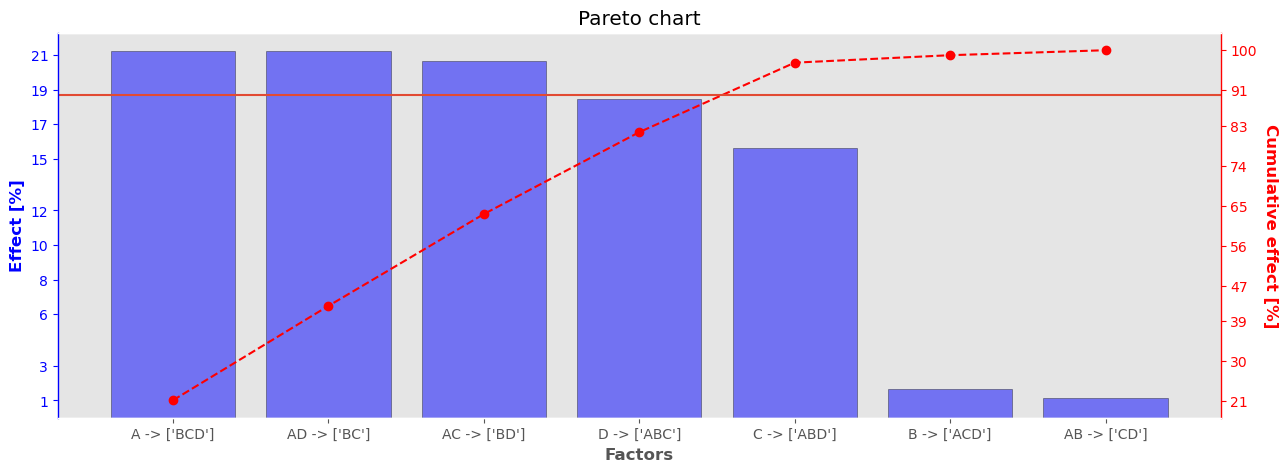
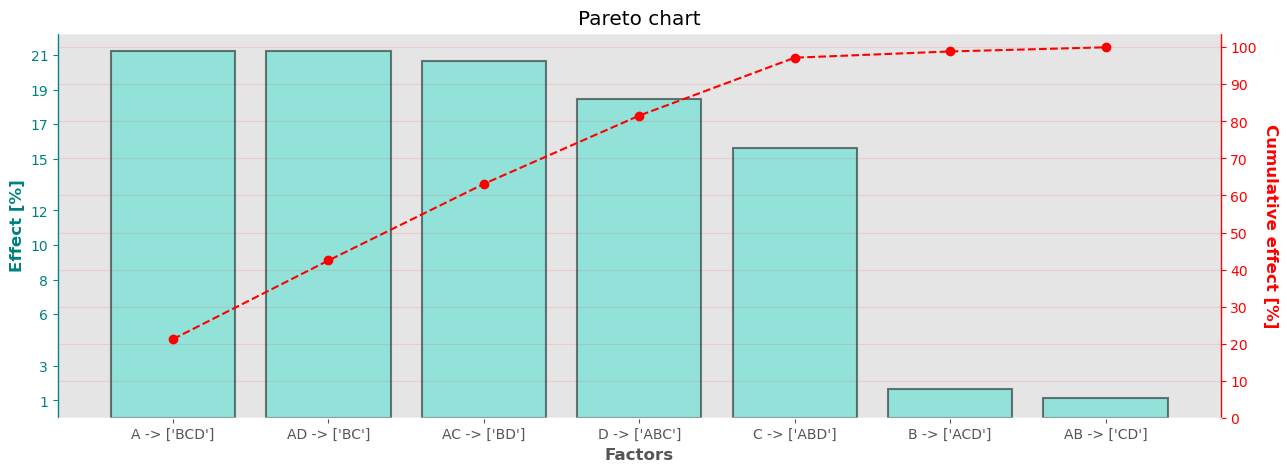
Update

diff --git a/source/doemodels/factorial.py b/source/doemodels/factorial.py
@@ -28,11 +28,12 @@ class Factorial2k:
 
     columns_input: list[str] = field(default_factory=list)
     columns_multiplication: list[str] = field(default_factory=list, init=False, repr=False)
-    DataFrame_Full: object = field(default_factory=list, init=False, repr=False)
+    DataFrame: object = field(default_factory=list, init=False, repr=False)
     aliases: dict = field(default_factory=list, init=False, repr=False)
     aliases_filtered: dict = field(default_factory=list, init=False, repr=False)
     DataFrame_AntiAliased: object = field(default_factory=list, init=False, repr=False)
-    effects: object = field(default_factory=list, init=False, repr=False)
+    effects_table: object = field(default_factory=list, init=False, repr=False)
+    pareto_table: object = field(default_factory=object, init=False, repr=False)
 
     def multiplications(self):
         for i in range(1, len(self.columns_input) + 1):
@@ -47,26 +48,26 @@ class Factorial2k:
             df[i] = df[mult_columns].prod(axis=1)
         df.index.name = "Experiments"
         df.index += 1
-        self.DataFrame_Full = df
+        self.DataFrame = df
 
     def fractional(self, principal_fraction: Union[list[str], str]):
         if isinstance(principal_fraction, str):
-            self.DataFrame_Full = self.DataFrame_Full.query(f"{principal_fraction} == 1")
-            self.DataFrame_Full = self.DataFrame_Full.drop(principal_fraction, axis=1)
+            self.DataFrame = self.DataFrame.query(f"{principal_fraction} == 1")
+            self.DataFrame = self.DataFrame.drop(principal_fraction, axis=1)
         else:
             for i in principal_fraction:
-                self.DataFrame_Full = self.DataFrame_Full.query(f"{i} == 1")
-                self.DataFrame_Full = self.DataFrame_Full.drop(i, axis=1)
-        self.DataFrame_Full.reset_index(drop=True, inplace=True)
-        self.DataFrame_Full.index.name = "Experiments"
-        self.DataFrame_Full.index += 1
+                self.DataFrame = self.DataFrame.query(f"{i} == 1")
+                self.DataFrame = self.DataFrame.drop(i, axis=1)
+        self.DataFrame.reset_index(drop=True, inplace=True)
+        self.DataFrame.index.name = "Experiments"
+        self.DataFrame.index += 1
 
         # Aliases
         alias_dict = {}
-        for checking_column in self.DataFrame_Full.columns:
+        for checking_column in self.DataFrame.columns:
             aliases = []
-            for column in self.DataFrame_Full.columns:
-                if checking_column != column and (self.DataFrame_Full[checking_column] == self.DataFrame_Full[column]).all():
+            for column in self.DataFrame.columns:
+                if checking_column != column and (self.DataFrame[checking_column] == self.DataFrame[column]).all():
                     aliases.append(column)
             alias_dict[checking_column] = aliases
         self.aliases = alias_dict
@@ -76,13 +77,13 @@ class Factorial2k:
         cols_to_keep = []
         for key, values in self.aliases.items():
             for alias in values:
-                if alias in self.DataFrame_Full.columns and alias not in cols_to_keep:
+                if alias in self.DataFrame.columns and alias not in cols_to_keep:
                     cols_to_drop.append(alias)
             cols_to_keep.append(key)
-        self.DataFrame_AntiAliased = self.DataFrame_Full.drop(cols_to_drop, axis=1)
+        self.DataFrame_AntiAliased = self.DataFrame.drop(cols_to_drop, axis=1)
         self.aliases_filtered = {key: value for key, value in self.aliases.items() if key not in cols_to_drop}
 
-    def effect(self, response: list[float], n: int = 1, graph: bool = False):
+    def effects(self, response: list[float], n: int = 1, graph: bool = False):
         if self.aliases:
             labels = []
             for key, value in self.aliases_filtered.items():
@@ -92,86 +93,83 @@ class Factorial2k:
             division = df["A"].value_counts().values[1]
             df["Y"] = response
             df_multiplied = df.drop(columns=['Y']).mul(df['Y'], axis=0)
-            self.effects = pd.DataFrame(df_multiplied.sum(), columns=["Response"]).T / division / n
-            min = self.effects.min().values.min()
-            max = self.effects.max().values.max()
-            self.effects.columns = labels
+            self.effects_table = pd.DataFrame(df_multiplied.sum(), columns=["Response"]).T / division / n
+            min = self.effects_table.min().values.min()
+            max = self.effects_table.max().values.max()
+            self.effects_table.columns = labels
             if graph:
                 if len(self.DataFrame_AntiAliased.columns) > 15:
                     with plotting() as (fig, ax):
-                        ax.barh(y=self.effects.columns, width=self.effects.loc["Response"], color="turquoise", edgecolor="black", linewidth=0.5)
+                        ax.barh(y=self.effects_table.columns, width=self.effects_table.loc["Response"], color="turquoise", edgecolor="black", linewidth=1.5)
                         ax.axvline(0, color="black")
-                        ax.set_xlabel("Factors")
-                        ax.set_ylabel("Effect")
+                        ax.set_xlabel("Effect")
+                        ax.set_ylabel("Factors")
                         ax.set_title("Effects of factors")
                         ax.set_xticks(np.linspace(min, max, 10))
                 else:
                     with plotting() as (fig, ax):
-                        ax.bar(x=self.effects.columns, height=self.effects.loc["Response"], color="turquoise", edgecolor="black", linewidth=0.5)
+                        ax.bar(x=self.effects_table.columns, height=self.effects_table.loc["Response"], color="turquoise", edgecolor="black", linewidth=1.5)
                         ax.axhline(0, color="black")
                         ax.set_xlabel("Factors")
                         ax.set_ylabel("Effect")
                         ax.set_title("Effects of factors")
                         ax.set_yticks(np.linspace(min, max, 10))
         else:
-            df = self.DataFrame_Full
+            df = self.DataFrame
             division = df["A"].value_counts().values[1]
             df["Y"] = response
             df_multiplied = df.drop(columns=['Y']).mul(df['Y'], axis=0)
-            self.effects = pd.DataFrame(df_multiplied.sum(), columns=["Response"]).T / division / n
-            min = self.effects.min().values.min()
-            max = self.effects.max().values.max()
+            self.effects_table = pd.DataFrame(df_multiplied.sum(), columns=["Response"]).T / division / n
+            min = self.effects_table.min().values.min()
+            max = self.effects_table.max().values.max()
             if graph:
-                if len(self.DataFrame_Full.columns) > 15:
+                if len(self.DataFrame.columns) > 15:
                     with plotting() as (fig, ax):
-                        ax.barh(y=self.effects.columns, width=self.effects.loc["Response"], color="turquoise", edgecolor="black", linewidth=0.5)
+                        ax.barh(y=self.effects_table.columns, width=self.effects_table.loc["Response"], color="turquoise", edgecolor="black", linewidth=1.5)
                         ax.axvline(0, color="black")
-                        ax.set_xlabel("Factors")
-                        ax.set_ylabel("Effect")
+                        ax.set_xlabel("Effect")
+                        ax.set_ylabel("Factors")
                         ax.set_title("Effects of factors")
                         ax.set_xticks(np.linspace(min, max, 10))
                 else:
                     with plotting() as (fig, ax):
-                        ax.bar(x=self.effects.columns, height=self.effects.loc["Response"], color="turquoise", edgecolor="black", linewidth=0.5)
+                        ax.bar(x=self.effects_table.columns, height=self.effects_table.loc["Response"], color="turquoise", edgecolor="black", linewidth=1.5)
                         ax.axhline(0, color="black")
                         ax.set_xlabel("Factors")
                         ax.set_ylabel("Effect")
                         ax.set_title("Effects of factors")
                         ax.set_yticks(np.linspace(min, max, 10))
 
-    def pareto(self):
-        df = self.effects.copy()
+    def pareto(self, graph: bool):
+        df = self.effects_table.copy()
         df = df.T
         df["%"] = (np.absolute(df["Response"]) / np.absolute(df["Response"]).sum() * 100).round(2)
         df = df.sort_values(by="%", ascending=False)
         df["cum_sum_%"] = df["%"].cumsum().round(2)
+        self.pareto_table = df
 
-        with plotting() as (fig, ax):
-            # Effect
-            min = np.min(df["%"])
-            max = np.max(df["%"])
-            ax.bar(df.index, df["%"], color="blue", edgecolor="black", linewidth=0.5, alpha=0.5)
-            ax.tick_params(axis='y', colors='blue')
-            ax.set_ylabel("Effect [%]", fontdict={"fontweight":"bold"}, color="blue")
-            ax.set_yticks(np.linspace(min, max, 10).round(0))
-            ax.set_title("Pareto chart")
-            ax.set_xlabel("Factors", fontdict={"fontweight":"bold"})
-            plt.grid(False)
+        if graph:
+            with plotting() as (fig, ax):
+                # Effect
+                min = np.min(df["%"])
+                max = np.max(df["%"])
+                ax.bar(df.index, df["%"], color="turquoise", edgecolor="black", linewidth=1.5, alpha=0.5)
+                ax.tick_params(axis='y', colors='teal')
+                ax.set_ylabel("Effect [%]", fontdict={"fontweight":"bold"}, color="teal")
+                ax.set_xlabel("Factors", fontdict={"fontweight":"bold"})
+                ax.set_yticks(np.linspace(min, max, 10).round(0))
+                ax.set_title("Pareto chart")
+                plt.grid(False)
 
-            # Cumulative effect
-            min = np.min(df["cum_sum_%"])
-            max = np.max(df["cum_sum_%"])
-            ax2 = plt.twinx()
-            ax2.plot(df.index, df["cum_sum_%"], marker="o", linestyle="--", color="red")
-            ax2.set_ylabel("Cumulative effect [%]", fontdict={"fontweight":"bold"}, color="red", rotation=-90, labelpad=15)
-            ax2.tick_params(axis='y', colors='red')
-            ax2.spines["right"].set_color('red')
-            ax2.spines["left"].set_color('blue')
-            ax2.set_yticks(np.linspace(min, max, 10).round(0))
-            ax2.axhline(90)
-            plt.grid(False)
-
-        return df
+                # Cumulative effect
+                ax2 = plt.twinx()
+                ax2.plot(df.index, df["cum_sum_%"], marker="o", linestyle="--", color="red")
+                ax2.set_ylabel("Cumulative effect [%]", fontdict={"fontweight":"bold"}, color="red", rotation=-90, labelpad=15)
+                ax2.tick_params(axis='y', colors='red')
+                ax2.spines["right"].set_color('red')
+                ax2.spines["left"].set_color('teal')
+                ax2.set_yticks(np.arange(0, 110, 10))
+                ax2.grid(axis='y', color='red', alpha=0.1)
 
     def __post_init__(self):
         self.multiplications()
